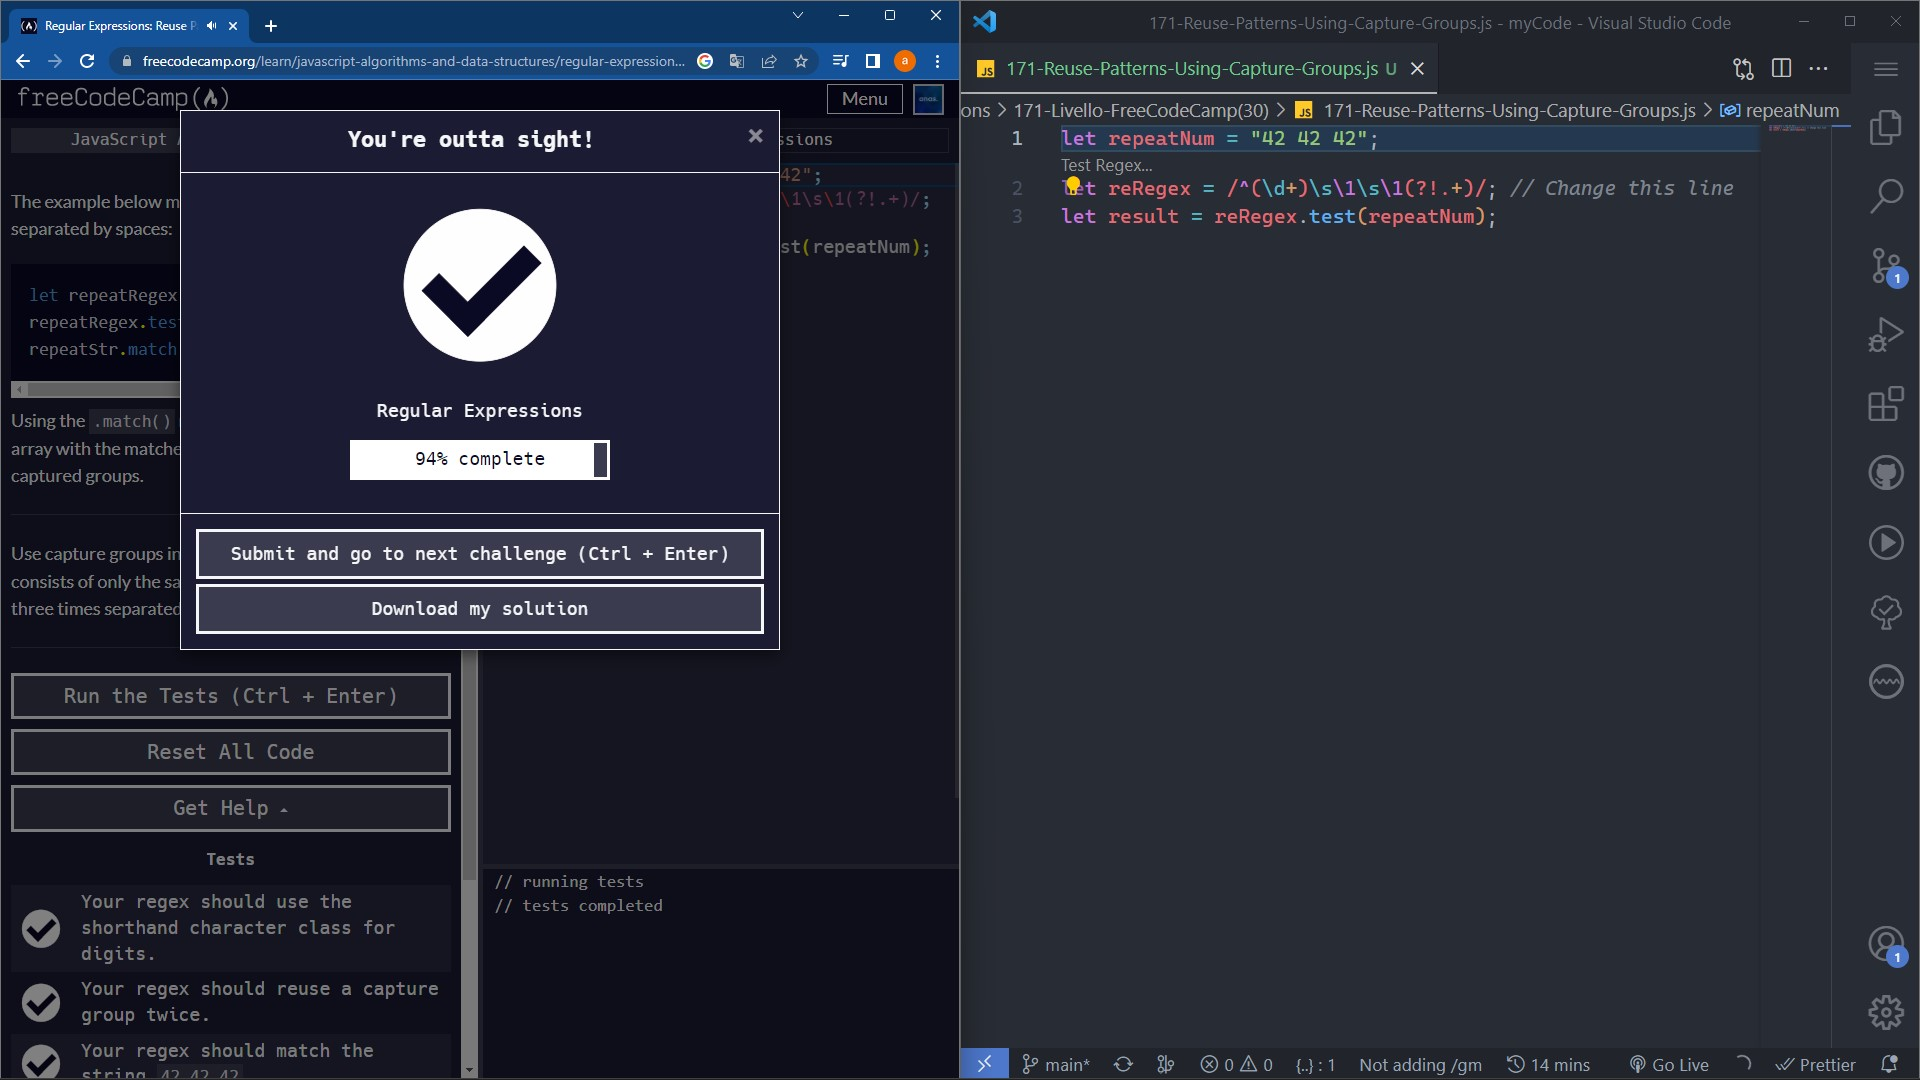
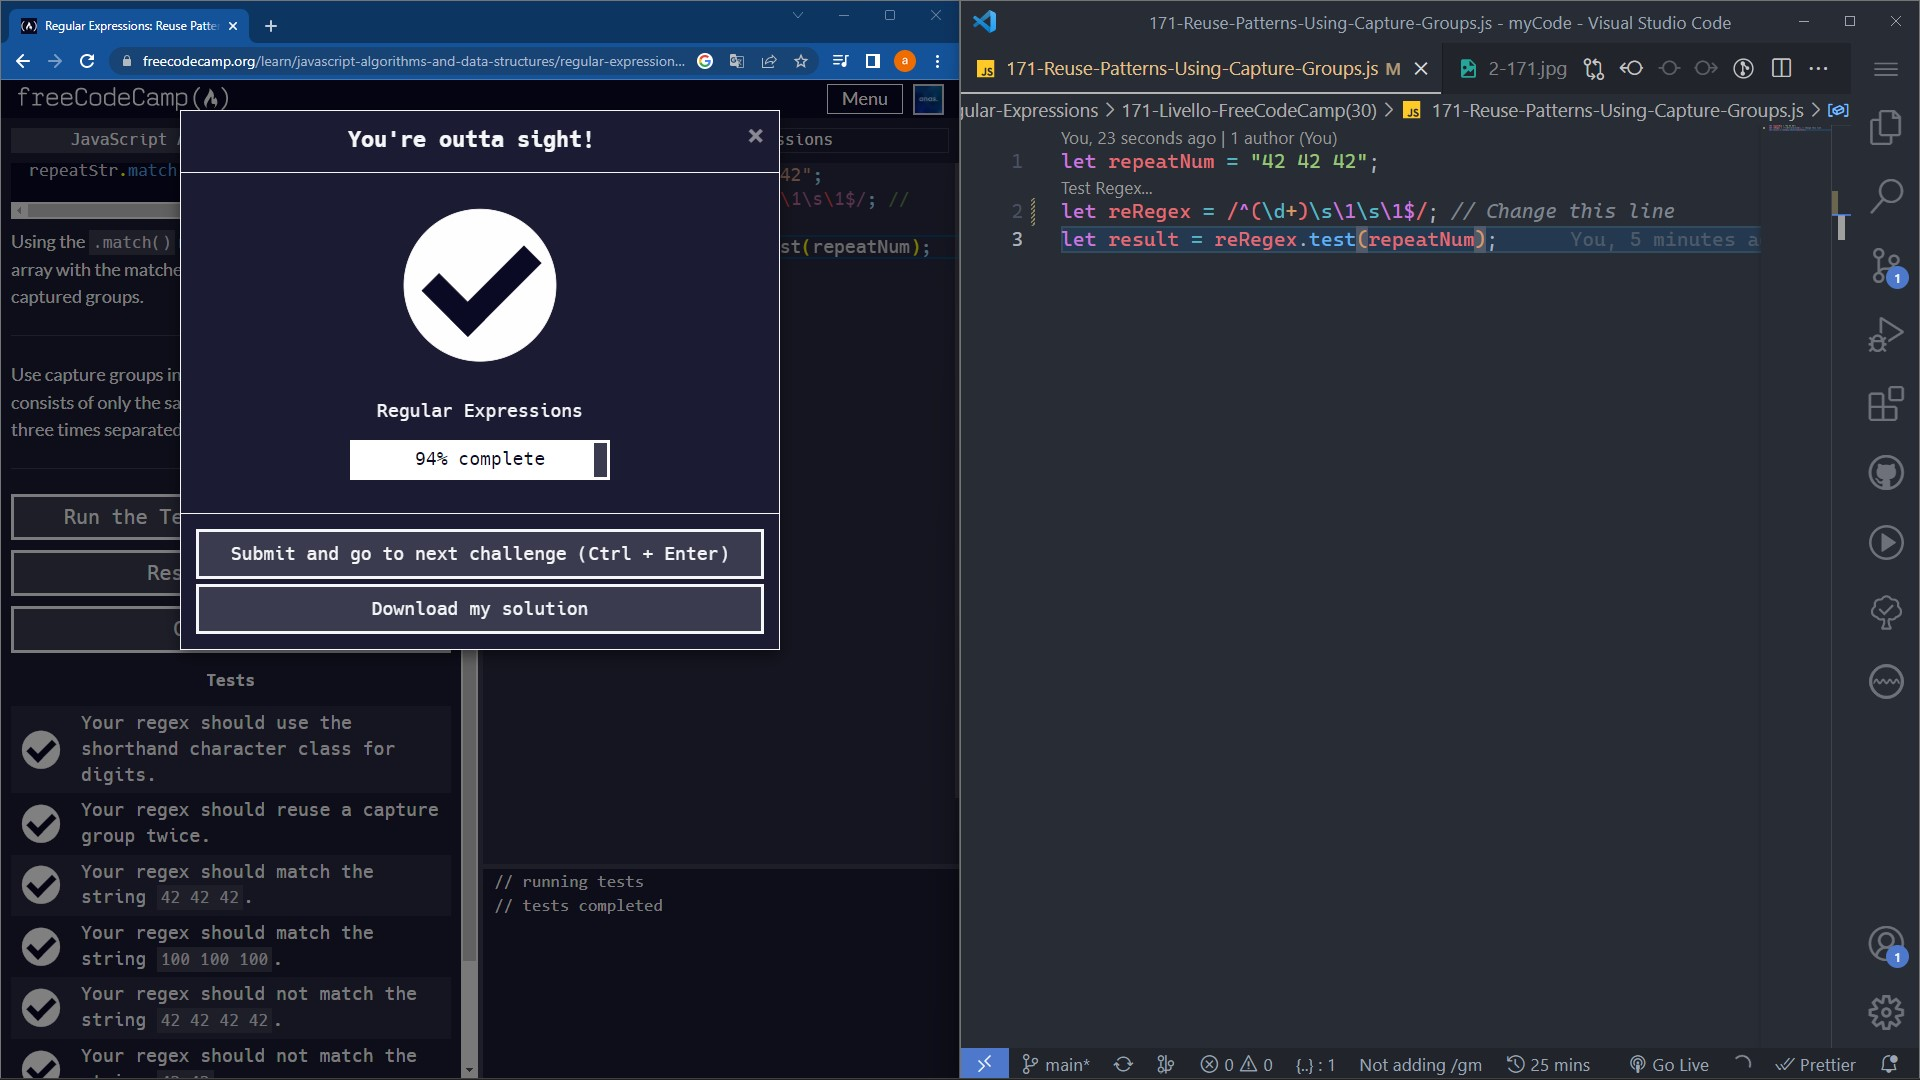
JS 2-171 FreeCodeCamp — Regular Expressions — "Reuse Patterns Using Capture Groups"

diff --git a/FreeCodeCamp/2-JavaScript-Algorithms-and-Data-Structures/2-Regular-Expressions/171-Livello-FreeCodeCamp(30)/171-Reuse-Patterns-Using-Capture-Groups.js b/FreeCodeCamp/2-JavaScript-Algorithms-and-Data-Structures/2-Regular-Expressions/171-Livello-FreeCodeCamp(30)/171-Reuse-Patterns-Using-Capture-Groups.js
@@ -1,3 +1,3 @@
 let repeatNum = "42 42 42";
-let reRegex = /^(\d+)\s\1\s\1(?!.+)/; // Change this line
+let reRegex = /^(\d+)\s\1\s\1$/; // Change this line
 let result = reRegex.test(repeatNum);
